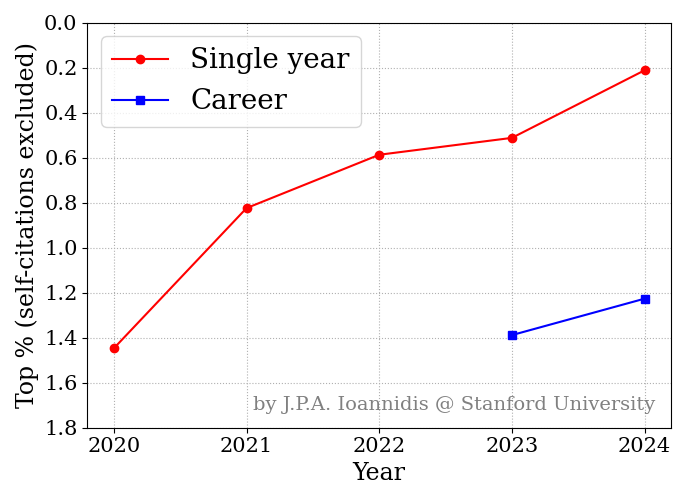
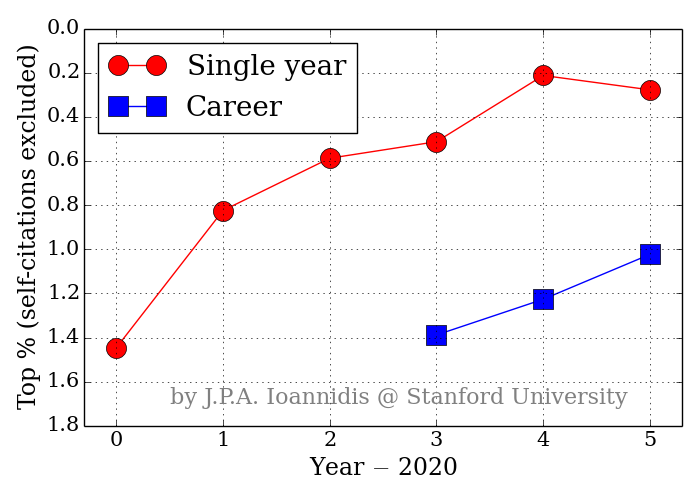
m

diff --git a/about/about.md b/about/about.md
@@ -29,7 +29,7 @@ University](http://www.pku.edu.cn/), Beijing China.
 - Committee Member of the [Division of Gravitation and Relativistic Astrophysics](http://www.cps-net.org.cn/News/Content/show/id/5325.do), CPS
 - [2020 Breakthrough Prize in Fundamental
   Physics](https://friendshao.github.io/docs/breakthrough_Certificate_2020.pdf) awarded to the EHTC (shared by 347 members)
-- World's Top 2% Scientists [2020-2024](top2.png) ([data](https://elsevier.digitalcommonsdata.com/datasets/btchxktzyw/7))
+- World's Top 2% Scientists [2020-2025](top2.png) ([data](https://elsevier.digitalcommonsdata.com/datasets/btchxktzyw/8))
 
 
 <img style="float: right;" src="../whatsmore/schedule.png" width="48%">
